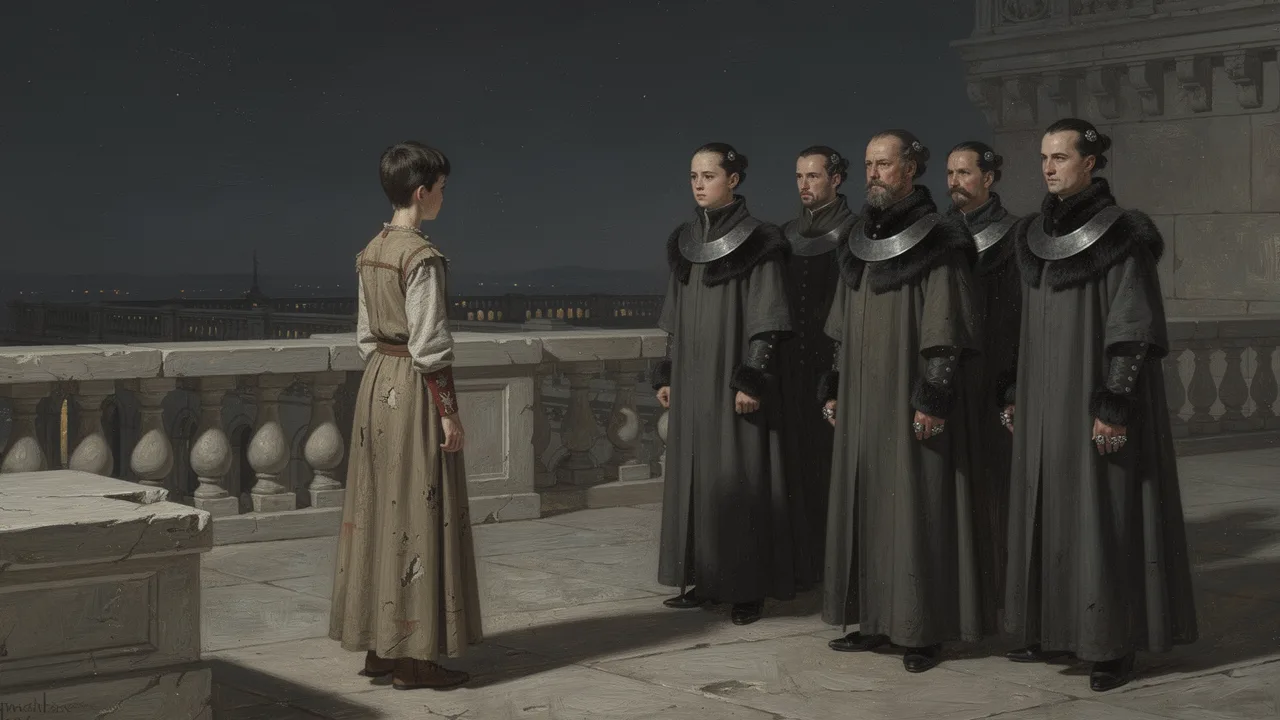
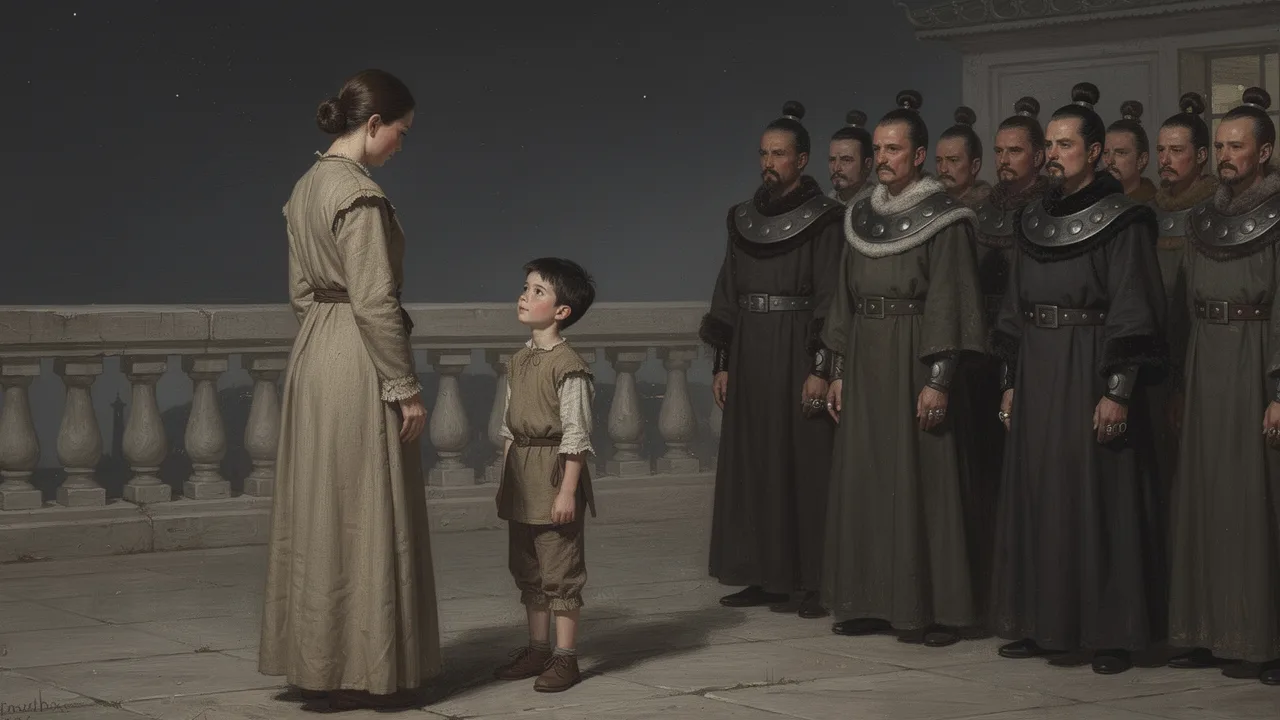
art: sechs Motive umformulieren, an denen die Moderation abgebrochen ist
6 von 26 Requests im Kapitel-1-Lauf abgelehnt — 5x Request Moderated
(der Prompt-TEXT), 1x Content Moderated (das fertige BILD). Kapitel 1
spielt nach einer Schlacht und hat die Woerter deshalb naheliegend
gebraucht: dead, body, killing ground, wounded, destroyed.

Der Filter sieht das Wort, nicht die Absicht. Alle sechs umformuliert,
ohne den Inhalt zu verlieren — und die Umformulierung ist durchweg die
bessere Prosa: "the ground where the fighting ended" steht naeher an
Eriksons Ton als "a killing ground", und "every one of them in the same
colours" sagt praeziser, was "no enemy dead at all" sagen wollte.

Der Content-Moderated-Fall war ein eigener Fehler: "a wounded horse ...
a soldier kneeling at its head" ergibt einen Gnadenstoss. Die Szene
zeigt gar keinen — der Soldat bleibt eine halbe Stunde bei dem Tier und
redet mit ihm. Genau das steht jetzt im Prompt.

Abgesichert durch MODERATION_TRIGGERS + Test auf allen Motivtexten.
Bewusst nur auf Motive, nicht auf die Bausteine: MOOD_PHRASE.aftermath
enthaelt "still bodies" und ist in neun Bildern durchgegangen — das Wort
allein kippt nichts, die Haeufung tut es. Geprueft wird am Wortanfang,
sonst meldet "body" das harmlose "nobody talking".

diff --git a/src/content/art/b1/c01.ts b/src/content/art/b1/c01.ts
@@ -68,8 +68,12 @@ export const art01: ArtPrompt[] = [
   },
   {
     id: `${C}.s02.p02`,
-    subject: 'the aftermath of a cavalry troop destroyed on an open road, horses and riders scattered, no enemy dead at all',
-    detail: 'the ground churned in wide arcs, gear untouched, nothing looted',
+    // "no enemy dead at all" war der Kern der Szene und zugleich eine
+    // Verneinung. Positiv gesagt trifft es sogar besser: alle tragen dieselben
+    // Farben — dann ist offensichtlich, dass hier nur eine Seite liegt.
+    subject: 'an open road the morning after a cavalry troop was broken, riders and horses lying where they fell, '
+      + 'every one of them in the same colours',
+    detail: 'the ground churned in wide arcs, gear and weapons still where they were dropped',
     mood: 'aftermath', palette: 'ash-rust', tier: 'hero',
   },
   {
@@ -87,17 +91,23 @@ export const art01: ArtPrompt[] = [
   // ------------------------------------------------------------------ 1.2a
   {
     id: `${C}.s06.p01`,
-    subject: 'recruits moving through a field of dead cavalry, lifting cloaks, checking, moving on',
+    subject: 'recruits walking a field of fallen riders in grey morning light, lifting a cloak here and there '
+      + 'to look at a face, then moving on',
     mood: 'aftermath', palette: 'ash-rust', tier: 'standard',
   },
   {
     id: `${C}.s06.p02`,
-    subject: 'a wounded horse lying on its side in dust, a soldier kneeling at its head',
+    // Einziger `Content Moderated`-Fall des Blocks: geprueft wurde das fertige
+    // BILD, nicht der Text. "wounded horse" plus knieender Soldat ergibt einen
+    // Gnadenstoss — den zeigt die Szene gar nicht. Sie bleibt eine gute halbe
+    // Stunde bei dem Tier und redet mit ihm. Genau das steht jetzt da.
+    subject: 'a horse lying on its side in the dust, a soldier kneeling at its head with one hand flat on its neck, '
+      + 'talking to it',
     mood: 'aftermath', palette: 'bone-dust', tier: 'standard',
   },
   {
     id: `${C}.s06.p03`,
-    subject: 'someone sitting in the dirt beside a body, doing nothing, waiting',
+    subject: 'a recruit sitting in the dirt beside a fallen rider, hands loose in the lap, eyes on the horizon',
     mood: 'aftermath', palette: 'hoods-grey', tier: 'standard',
   },
 
@@ -134,7 +144,8 @@ export const art01: ArtPrompt[] = [
   // ------------------------------------------------------------------- 1.3
   {
     id: `${C}.s07.p01`,
-    subject: 'a composed woman in black imperial leathers walking a killing ground, cataloguing rather than mourning',
+    subject: 'a composed woman in black imperial leathers walking the ground where the fighting ended, '
+      + 'reading it like a page rather than mourning it',
     characters: ['lorn'],
     mood: 'aftermath', palette: 'hoods-grey', tier: 'hero',
   },
@@ -143,7 +154,7 @@ export const art01: ArtPrompt[] = [
     // Zwei Figuren, nur eine mit Blatt: dieselbe Konstruktion hat in
     // `b1.c00.s05.p02` die zweite Person verschluckt. Deshalb hier die Anzahl
     // vorweg und je ein eindeutiges Merkmal.
-    subject: 'two people stand over the same body, one on each side of it, looking at different things: '
+    subject: 'two people stand over the same fallen rider, one on each side, looking at different things: '
       + 'a woman in black leathers, and a much younger officer a head taller than her',
     characters: ['lorn'],
     station: ['imperialCommand'],

diff --git a/tests/content/art.test.ts b/tests/content/art.test.ts
@@ -7,7 +7,7 @@
 import { describe, expect, it } from 'vitest'
 import { artPrompts } from '../../src/content/index.ts'
 import { buildPrompt, promptHash, COMPOSITION } from '../../src/content/art/prompt.ts'
-import { CHARACTER_SHEETS, FORBIDDEN_PERIOD_MARKERS, MOOD_PHRASE, PALETTES, PLACE_SHEETS, REFERENCE_ANCHOR, STATION_SHEETS, STYLE_ANCHOR } from '../../src/content/art/style.ts'
+import { CHARACTER_SHEETS, FORBIDDEN_PERIOD_MARKERS, MODERATION_TRIGGERS, MOOD_PHRASE, PALETTES, PLACE_SHEETS, REFERENCE_ANCHOR, STATION_SHEETS, STYLE_ANCHOR } from '../../src/content/art/style.ts'
 import { ART_MOODS } from '../../src/model/types.ts'
 
 describe('Stil-Anker', () => {
@@ -91,6 +91,23 @@ describe('Prompt-Vorlage', () => {
     for (const p of artPrompts) {
       const text = buildPrompt(p).toLowerCase()
       for (const m of FORBIDDEN_PERIOD_MARKERS) if (text.includes(m)) bad.push(`${p.id}: "${m}"`)
+    }
+    expect(bad).toEqual([])
+  })
+
+  // 6 von 26 Requests abgelehnt (01.08.2026, Kapitel 1). Ein Reizwort im
+  // Motivtext kostet den Platz im Batch — und die Umformulierung ist fast
+  // immer die bessere Prosa.
+  it('kein Motivtext traegt ein Wort, an dem die Moderation schon abgebrochen ist', () => {
+    // Wortanfang pruefen, nicht Teilstring: sonst meldet "body" das voellig
+    // harmlose "nobody talking". Kein abschliessendes \b, damit "mutilat" auch
+    // "mutilated" und "mutilation" fasst.
+    const bad: string[] = []
+    for (const p of artPrompts) {
+      const text = `${p.subject} ${p.detail ?? ''}`
+      for (const w of MODERATION_TRIGGERS) {
+        if (new RegExp(`\\b${w}`, 'i').test(text)) bad.push(`${p.id}: "${w}"`)
+      }
     }
     expect(bad).toEqual([])
   })

diff --git a/src/content/art/style.ts b/src/content/art/style.ts
@@ -216,6 +216,29 @@ export const FORBIDDEN_PERIOD_MARKERS = [
   'medal', 'gilt', 'brocade', 'cravat', 'powdered wig', 'lace cuff',
 ] as const
 
+/**
+ * Woerter, an denen die Inhaltspruefung dieses Projekts nachweislich schon
+ * abgebrochen hat. Alle stammen aus dem Bildlauf zu Kapitel 1 am 01.08.2026,
+ * bei dem 6 von 26 Requests abgelehnt wurden — ein Kapitel, das nach einer
+ * Schlacht spielt und die Woerter deshalb naheliegend gebraucht hat.
+ *
+ * ⚠ Ehrlich zur Aussagekraft: WELCHES Wort im Einzelfall gekippt hat, ist
+ * nicht gemessen — sie standen in denselben Saetzen. Die Liste ist bewusst
+ * konservativ und darf Fehlalarm geben. Sie kostet eine Umformulierung; ein
+ * abgelehnter Batch kostet einen halben Lauf.
+ *
+ * Geprueft werden nur Motivtexte, nicht die Bausteine: `MOOD_PHRASE.aftermath`
+ * enthaelt `still bodies` und ist in neun Bildern anstandslos durchgegangen.
+ * Das Wort allein kippt also nichts — die Haeufung tut es.
+ *
+ * Und das Gegenmittel ist ohnehin das bessere Schreiben: `the ground where the
+ * fighting ended` steht naeher an Eriksons Ton als `a killing ground`.
+ */
+export const MODERATION_TRIGGERS = [
+  'dead', 'body', 'bodies', 'corpse', 'killing ground',
+  'wounded', 'destroyed', 'slaughter', 'blood', 'mutilat',
+] as const
+
 /** Wiederkehrende Orte — dieselbe Regel wie bei den Figuren. */
 export const PLACE_SHEETS: Record<string, string> = {
   malazCity:
